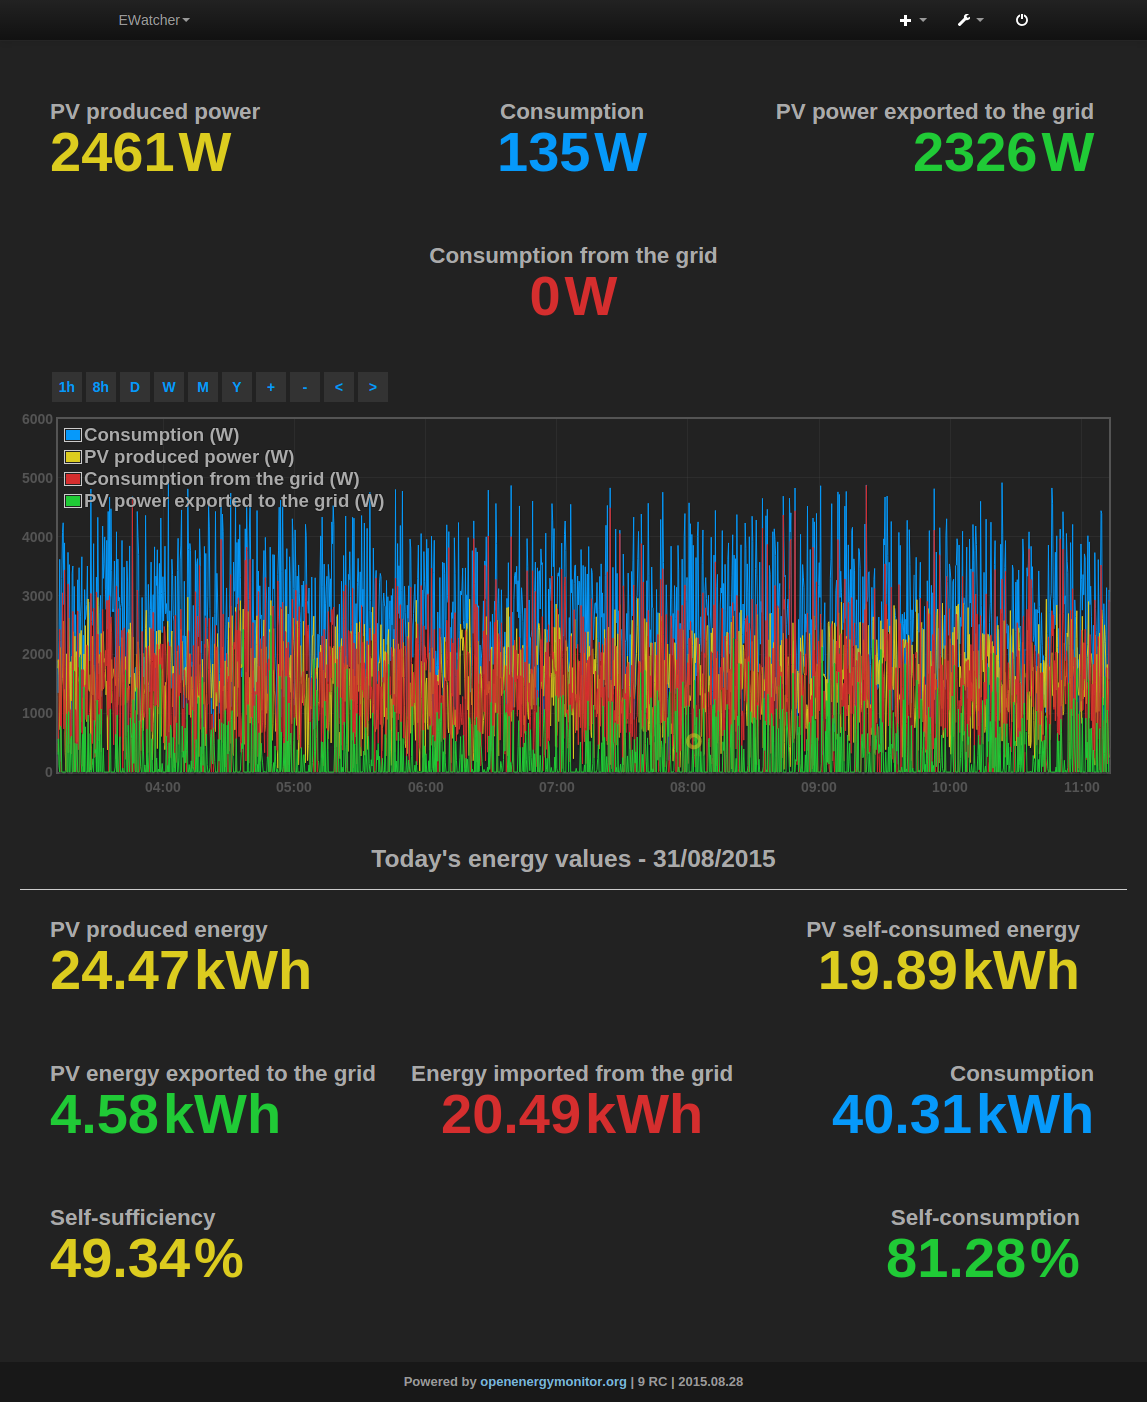
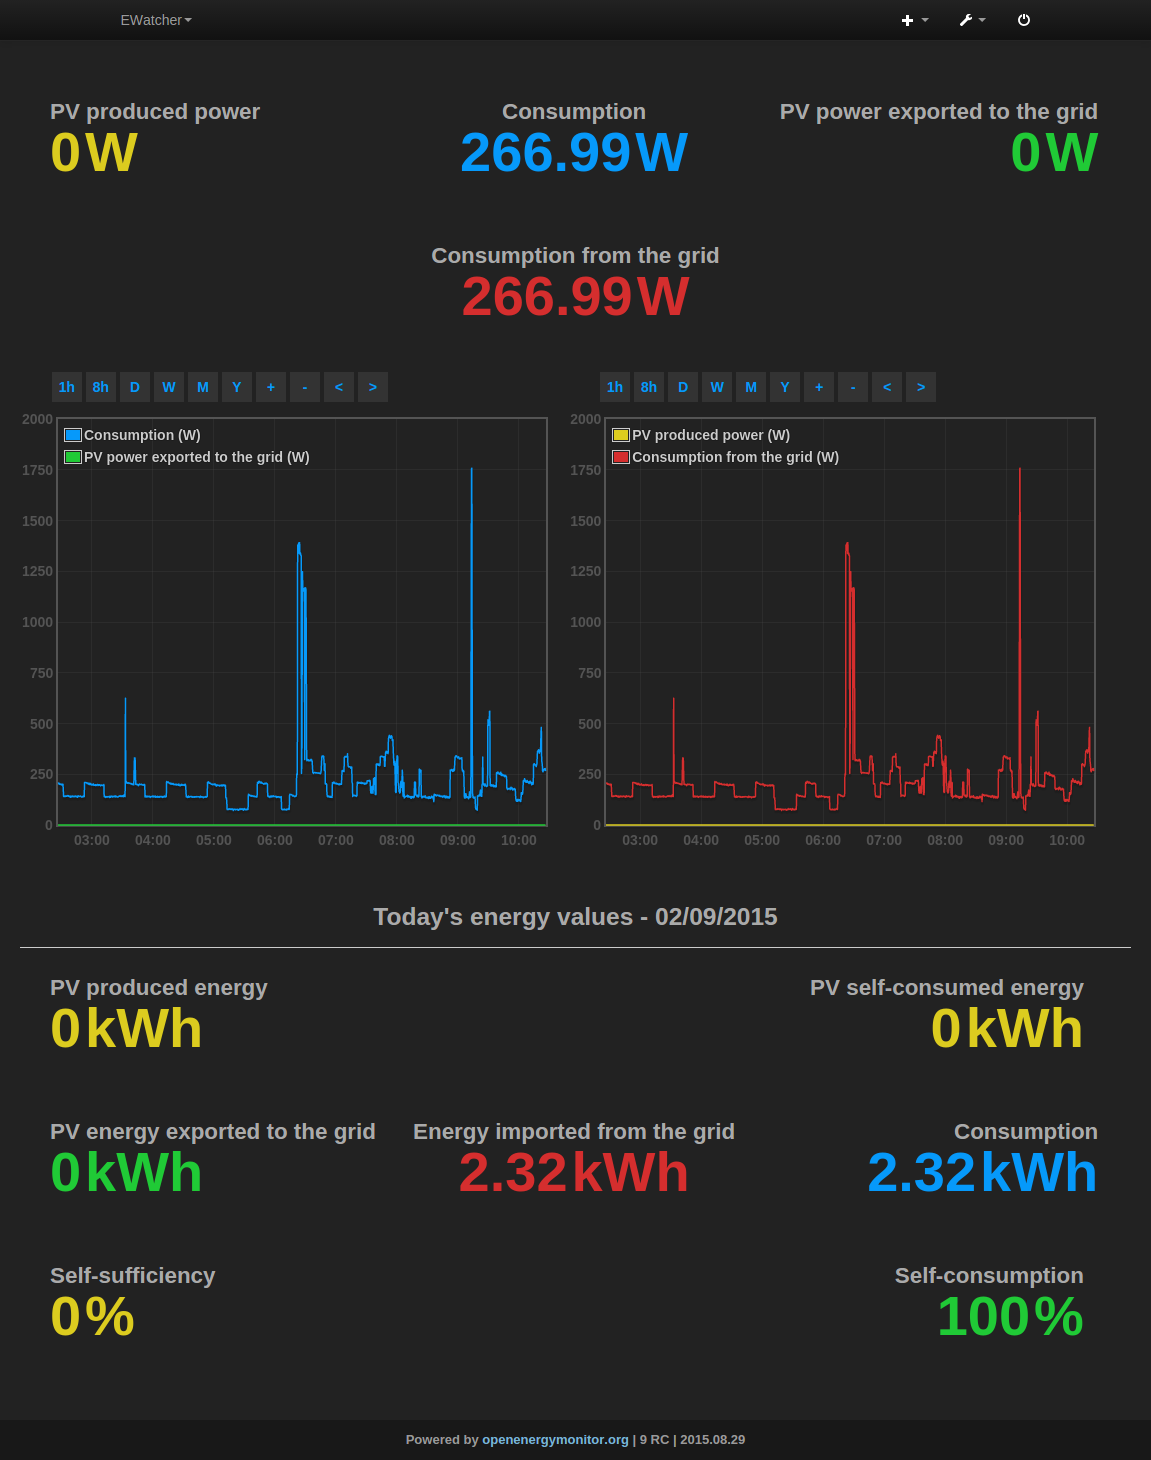
Style changes

diff --git a/panels/P3.php b/panels/P3.php
@@ -48,7 +48,10 @@
         </span>
       </div>
     </div>
-    <div id="P3Graph"></div>
+    <div class="multigraphs">
+      <div id="P3Graph1"></div>
+      <div id="P3Graph2"></div>
+    </div>
     <div class="title-separator">
       <h3><?php echo ewatcher_translate("Today's energy values"); ?> - <?php echo date("d/m/Y"); ?></h3>
     </div>
@@ -135,38 +138,42 @@
           }
           return Math.round(res * 100) / 100;
         });
-        // P3 Graph
-        var P3Graph = [
+        // P3 Graph 1
+        var P3Graph1 = [
           {
             id: <?php echo $this->feeds['sPLoad']['id']; ?>,
             color: "#0699FA",
             legend: "<?php echo ewatcher_translate('Consumption (W)'); ?>",
             fill: 0,
-            line: 1
-          },
-          {
-            id: <?php echo $this->feeds['sPPv']['id']; ?>,
-            color: "#DCCC1F",
-            legend: "<?php echo ewatcher_translate('PV produced power (W)'); ?>",
-            fill: 0,
-            line: 1
-          },
-          {
-            id: <?php echo $this->feeds['iGridToLoad']['id']; ?>,
-            color: "#D52E2E",
-            legend: "<?php echo ewatcher_translate('Consumption from the grid (W)'); ?>",
-            fill: 0,
-            line: 1
+            line: 1.5
           },
           {
             id: <?php echo $this->feeds['iPvToGrid']['id']; ?>,
             color: "#20CA36",
             legend: "<?php echo ewatcher_translate('PV power exported to the grid (W)'); ?>",
             fill: 0,
-            line: 1
+            line: 1.5
           }
         ];
-        FeedChartFactory.create("P3Graph", P3Graph, {defaultRange: 1, steps: false});
+        FeedChartFactory.create("P3Graph1", P3Graph1, {defaultRange: 1, steps: false});
+        // P3 Graph 2
+        var P3Graph2 = [
+          {
+            id: <?php echo $this->feeds['sPPv']['id']; ?>,
+            color: "#DCCC1F",
+            legend: "<?php echo ewatcher_translate('PV produced power (W)'); ?>",
+            fill: 0,
+            line: 1.5
+          },
+          {
+            id: <?php echo $this->feeds['iGridToLoad']['id']; ?>,
+            color: "#D52E2E",
+            legend: "<?php echo ewatcher_translate('Consumption from the grid (W)'); ?>",
+            fill: 0,
+            line: 1.5
+          }
+        ];
+        FeedChartFactory.create("P3Graph2", P3Graph2, {defaultRange: 1, steps: false});
       });
     </script>
     <?php

diff --git a/panels/P1.php b/panels/P1.php
@@ -49,10 +49,12 @@
             {
               id: <?php echo $this->feeds['sPLoad']['id']; ?>,
               color: "#0699FA",
-              legend: "<?php echo ewatcher_translate('Consumption (W)'); ?>"
+              legend: "<?php echo ewatcher_translate('Consumption (W)'); ?>",
+              fill: 0.7,
+              line: 1
             }
           ];
-          FeedChartFactory.create("sPLoad", sPLoad, {defaultRange: 1});
+          FeedChartFactory.create("sPLoad", sPLoad, {defaultRange: 1, steps: false});
           // eDLoad graphic
           var eDLoad = [
             {
